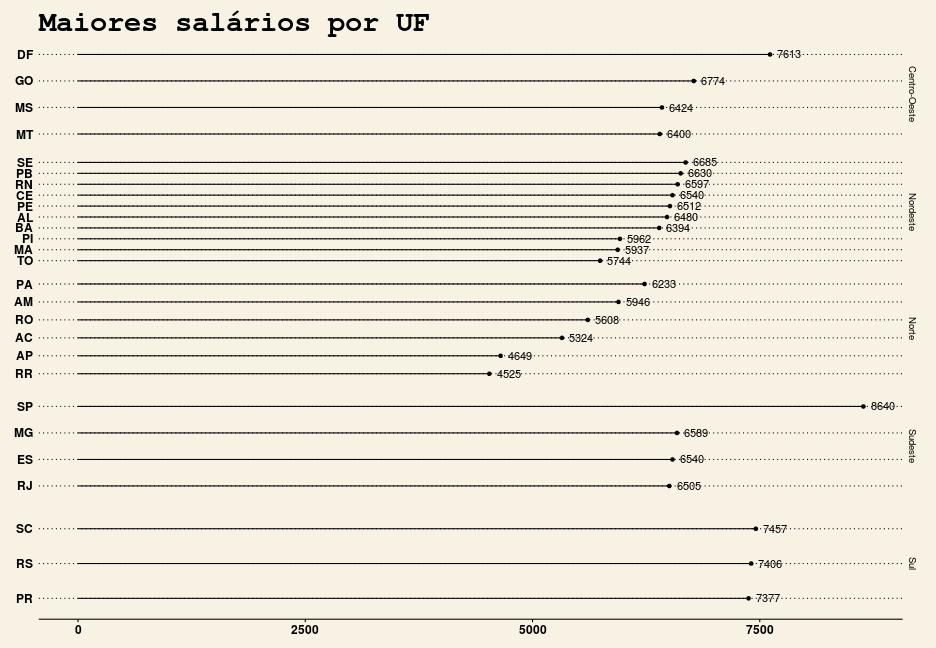
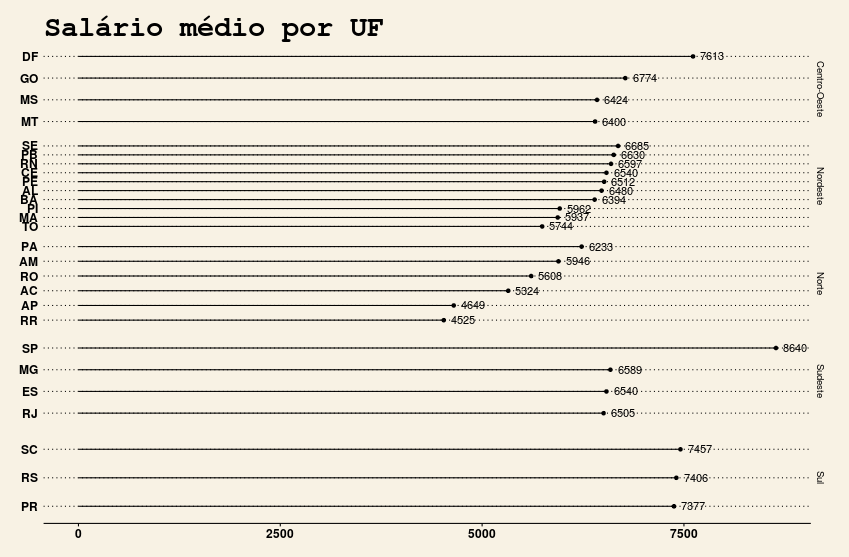
alterei titulo do grafico segundo post

diff --git a/_posts/2016-01-10-transparenciaParte2.md b/_posts/2016-01-10-transparenciaParte2.md
@@ -300,7 +300,7 @@ df %>%
   geom_segment(aes(yend = UF_EXERCICIO, xend = 0)) +
   facet_grid(REGIAO ~., drop = TRUE, scales = "free_y") +
   geom_text(aes(label = salarioMedio, hjust = -0.3)) +
-  labs(title = "Maiores salários por UF") +
+  labs(title = "Salário médio por UF") +
   theme_wsj()
 {% endhighlight %}
 
